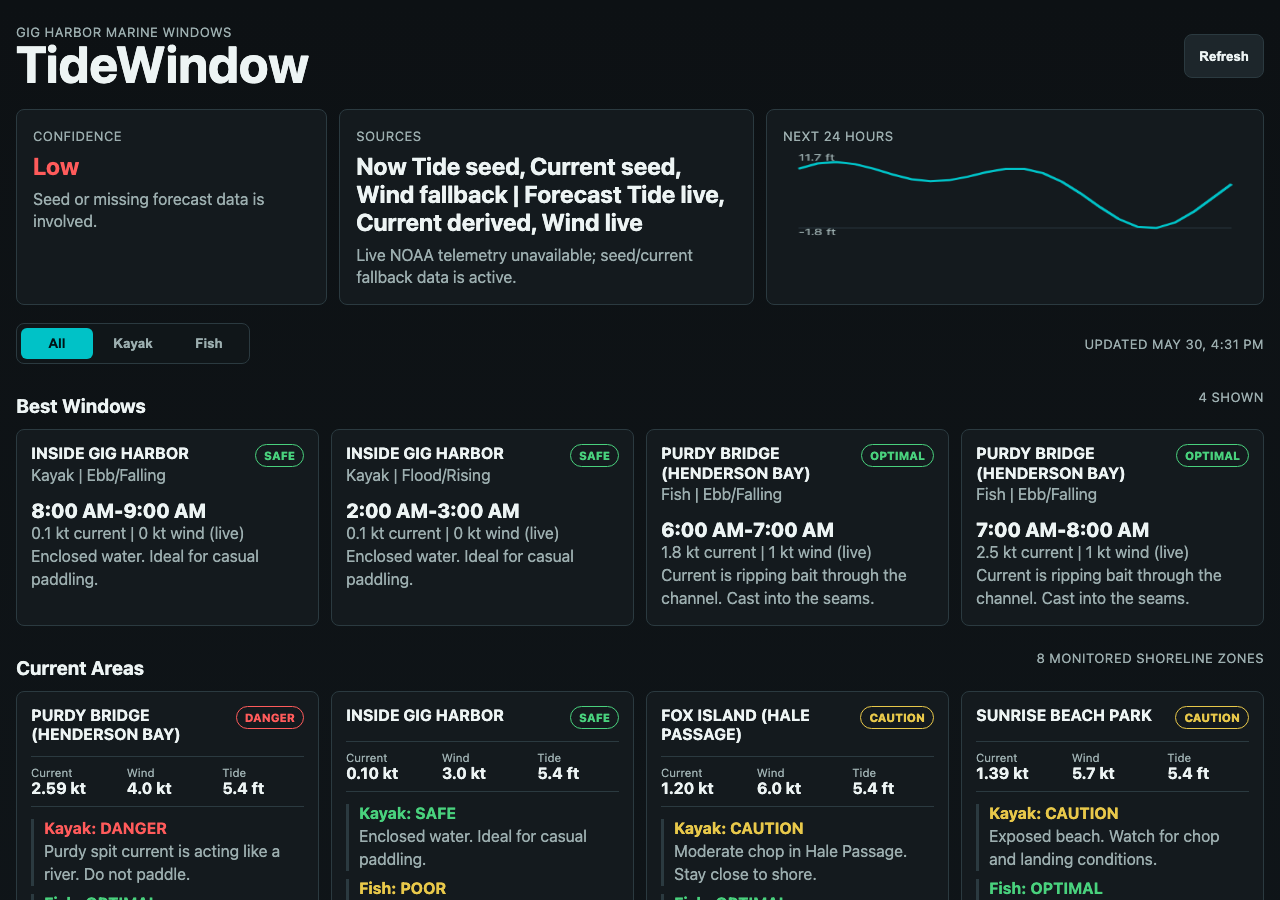
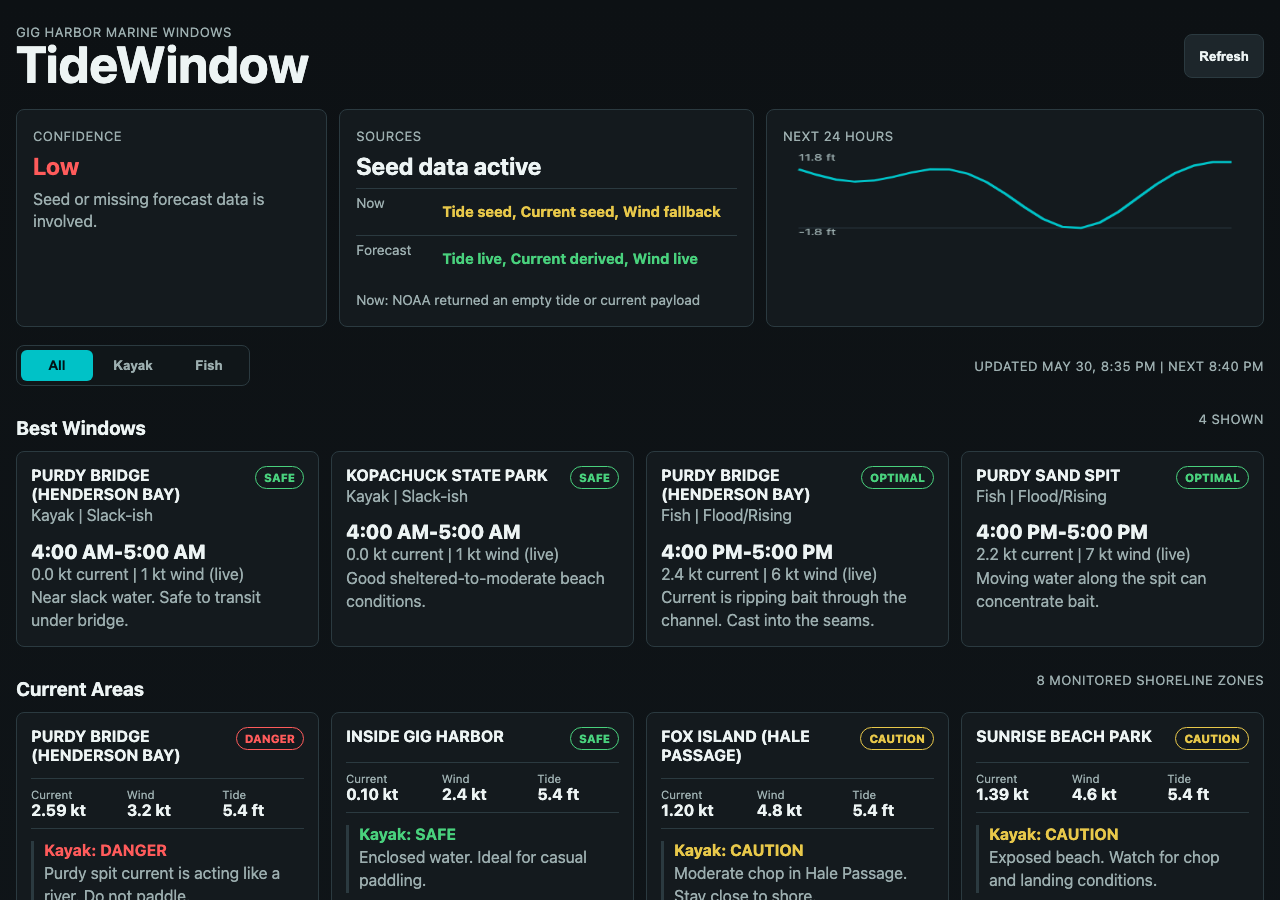
Add web refresh status and zone details

diff --git a/static/app.js b/static/app.js
@@ -1,6 +1,52 @@
 const state = {
   data: null,
   filter: "All",
+  autoRefreshMs: 5 * 60 * 1000,
+  nextRefreshAt: null,
+  refreshTimer: null,
+};
+
+const zoneDetails = {
+  purdy_bridge: {
+    local: "Bridge and spit constriction can accelerate flow quickly.",
+    kayak: "Safe at 1.0 kt or less, caution above 1.0 kt, danger above 2.0 kt.",
+    fish: "Optimal from 1.0-3.0 kt, poor near slack, danger above 3.0 kt.",
+  },
+  gig_harbor: {
+    local: "Protected harbor water with wind as the main comfort limiter.",
+    kayak: "Safe through 15 kt wind, caution above 15 kt.",
+    fish: "Optimal above 8.0 ft tide when bait pushes into the harbor edges.",
+  },
+  fox_island: {
+    local: "Hale Passage has exposure to fetch and current around the bridge.",
+    kayak: "Safe at 8 kt wind or less and 1.0 kt current or less, caution above either, danger above 12 kt wind or 2.0 kt current.",
+    fish: "Optimal from 0.5-2.0 kt current; wait for more movement outside that band.",
+  },
+  sunrise_beach: {
+    local: "Open shoreline with landing conditions that degrade in chop.",
+    kayak: "Safe at 9 kt wind or less and 1.0 kt current or less, caution above either, danger above 14 kt wind or 1.8 kt current.",
+    fish: "Optimal from 0.4-1.8 kt current along the beach structure.",
+  },
+  narrows_park: {
+    local: "Narrows shoreline conditions can change fast as current builds.",
+    kayak: "Safe at 8 kt wind or less and 0.8 kt current or less, caution above either, danger above 12 kt wind or 1.8 kt current.",
+    fish: "Optimal from 0.5-1.8 kt current, caution below that, danger above 2.5 kt.",
+  },
+  fox_island_pier: {
+    local: "Pier structure adds fishable edges but also exposure to wind chop.",
+    kayak: "Safe at 8 kt wind or less and 1.0 kt current or less, caution above either, danger above 12 kt wind or 2.0 kt current.",
+    fish: "Optimal from 0.5-2.0 kt current around structure and drop-offs.",
+  },
+  purdy_sand_spit: {
+    local: "Spit edges concentrate flow near Purdy Bridge.",
+    kayak: "Safe at 1.0 kt current or less, caution above 1.0 kt or 12 kt wind, danger above 2.0 kt current.",
+    fish: "Optimal from 1.0-2.8 kt current, poor near slack, danger above 3.0 kt.",
+  },
+  kopachuck: {
+    local: "Henderson Bay beach exposure makes wind and landings matter.",
+    kayak: "Safe at 9 kt wind or less and 1.0 kt current or less, caution above either, danger above 15 kt wind or 1.8 kt current.",
+    fish: "Optimal above 8.0 ft tide with more than 0.3 kt current.",
+  },
 };
 
 const elements = {
@@ -15,9 +61,16 @@ const elements = {
   windowCount: document.querySelector("#window-count"),
   tideChart: document.querySelector("#tide-chart"),
   filterButtons: document.querySelectorAll(".filter-button"),
+  zoneDialog: document.querySelector("#zone-dialog"),
+  zoneDialogClose: document.querySelector("#zone-dialog-close"),
+  zoneDialogContent: document.querySelector("#zone-dialog-content"),
 };
 
 elements.refresh.addEventListener("click", loadState);
+elements.zoneDialogClose.addEventListener("click", () => elements.zoneDialog.close());
+elements.zoneDialog.addEventListener("click", (event) => {
+  if (event.target === elements.zoneDialog) elements.zoneDialog.close();
+});
 elements.filterButtons.forEach((button) => {
   button.addEventListener("click", () => {
     state.filter = button.dataset.filter;
@@ -27,6 +80,7 @@ elements.filterButtons.forEach((button) => {
 });
 
 loadState();
+scheduleAutoRefresh();
 
 async function loadState() {
   elements.refresh.disabled = true;
@@ -41,12 +95,20 @@ async function loadState() {
     renderWindows();
     renderZones();
     drawTideChart();
+    scheduleAutoRefresh();
   } catch (error) {
     elements.windowsGrid.innerHTML = `<div class="empty">Unable to load TideWindow data. ${escapeHtml(error.message)}</div>`;
     elements.zonesGrid.innerHTML = "";
   } finally {
     elements.refresh.disabled = false;
   }
+}
+
+function scheduleAutoRefresh() {
+  if (state.refreshTimer) clearTimeout(state.refreshTimer);
+  state.nextRefreshAt = new Date(Date.now() + state.autoRefreshMs);
+  updateRefreshLine();
+  state.refreshTimer = setTimeout(loadState, state.autoRefreshMs);
 }
 
 function renderSummary() {
@@ -57,9 +119,19 @@ function renderSummary() {
 
   const telemetrySources = telemetry.sources || {};
   const forecastSources = forecast.sources || {};
-  elements.sourceLine.textContent = `Now ${sourceText(telemetrySources)} | Forecast ${sourceText(forecastSources)}`;
-  elements.sourceNote.textContent = compactNotice(telemetry, forecast);
-  elements.updatedAt.textContent = `Updated ${formatDateTime(generated_at)}`;
+  elements.sourceLine.textContent = sourceHeadline(telemetrySources, forecastSources);
+  elements.sourceNote.innerHTML = dataStatusRows(telemetry, forecast);
+  updateRefreshLine(generated_at);
+}
+
+function updateRefreshLine(generatedAt = state.data?.generated_at) {
+  if (!generatedAt) {
+    elements.updatedAt.textContent = "Updated when data loads";
+    return;
+  }
+
+  const nextRefresh = state.nextRefreshAt ? ` | Next ${formatTime(state.nextRefreshAt)}` : "";
+  elements.updatedAt.textContent = `Updated ${formatDateTime(generatedAt)}${nextRefresh}`;
 }
 
 function renderWindows() {
@@ -107,8 +179,51 @@ function renderZones() {
         ${activity("Kayak", zone.kayak)}
         ${activity("Fish", zone.fish)}
       </div>
+      <button class="details-button" type="button" data-zone-id="${escapeHtml(zone.id)}">Details</button>
     </article>
   `).join("");
+
+  elements.zonesGrid.querySelectorAll(".details-button").forEach((button) => {
+    button.addEventListener("click", () => openZoneDetails(button.dataset.zoneId));
+  });
+}
+
+function openZoneDetails(zoneId) {
+  const zone = state.data.zones.find((item) => item.id === zoneId);
+  if (!zone) return;
+
+  const details = zoneDetails[zoneId] || {
+    local: "Local zone thresholds are based on current TideWindow scoring rules.",
+    kayak: "Kayak scoring uses local current and wind thresholds.",
+    fish: "Fishing scoring uses local current and tide thresholds.",
+  };
+
+  elements.zoneDialogContent.innerHTML = `
+    <p class="eyebrow">Zone detail</p>
+    <h2 id="zone-dialog-title">${escapeHtml(zone.title)}</h2>
+    <div class="detail-metrics">
+      ${metric("Current", `${zone.current.toFixed(2)} kt`)}
+      ${metric("Wind", `${zone.wind.toFixed(1)} kt`)}
+      ${metric("Tide", `${zone.tide.toFixed(1)} ft`)}
+    </div>
+    <p class="detail-note">${escapeHtml(details.local)}</p>
+    ${detailRule("Kayak", zone.kayak, details.kayak)}
+    ${detailRule("Fish", zone.fish, details.fish)}
+  `;
+  elements.zoneDialog.showModal();
+}
+
+function detailRule(label, evaluation, rule) {
+  return `
+    <section class="detail-rule">
+      <header>
+        <h3>${escapeHtml(label)}</h3>
+        ${statusPill(evaluation.status)}
+      </header>
+      <p>${escapeHtml(evaluation.note)}</p>
+      <p class="notice">${escapeHtml(rule)}</p>
+    </section>
+  `;
 }
 
 function drawTideChart() {
@@ -172,11 +287,45 @@ function statusPill(status) {
   return `<span class="status-pill status-${color}">${escapeHtml(status)}</span>`;
 }
 
-function compactNotice(telemetry, forecast) {
-  if (forecast.wind_fallback_reason) return "Hourly wind unavailable; using current wind for forecast scoring.";
-  if (forecast.fallback_reason) return "Forecast fallback data is active.";
-  if (telemetry.fallback_reason) return "Live NOAA telemetry unavailable; seed/current fallback data is active.";
-  return "Live observations and forecast guidance are available.";
+function dataStatusRows(telemetry, forecast) {
+  const telemetrySources = telemetry.sources || {};
+  const forecastSources = forecast.sources || {};
+  const rows = [
+    statusRow("Now", telemetrySources, telemetry.fallback_reason),
+    statusRow("Forecast", forecastSources, forecast.fallback_reason || forecast.wind_fallback_reason),
+  ];
+
+  const notices = [
+    telemetry.fallback_reason && `Now: ${telemetry.fallback_reason}`,
+    forecast.fallback_reason && `Forecast: ${forecast.fallback_reason}`,
+    forecast.wind_fallback_reason && `Wind: ${forecast.wind_fallback_reason}`,
+  ].filter(Boolean);
+
+  if (notices.length) {
+    rows.push(`<p class="source-reason">${escapeHtml(notices.join(" | "))}</p>`);
+  }
+
+  return rows.join("");
+}
+
+function statusRow(label, sources, reason) {
+  const health = reason ? "yellow" : Object.values(sources).includes("seed") || Object.values(sources).includes("fallback") ? "yellow" : "green";
+  return `
+    <div class="source-row">
+      <span>${escapeHtml(label)}</span>
+      <strong class="status-${health}">${sourceText(sources)}</strong>
+    </div>
+  `;
+}
+
+function sourceHeadline(telemetrySources, forecastSources) {
+  const sourceValues = [
+    ...Object.values(telemetrySources),
+    ...Object.values(forecastSources),
+  ];
+  if (sourceValues.includes("seed")) return "Seed data active";
+  if (sourceValues.includes("fallback") || sourceValues.includes("missing")) return "Partial live data";
+  return "Live data";
 }
 
 function sourceText(sources) {

diff --git a/static/styles.css b/static/styles.css
@@ -82,6 +82,11 @@ h2 {
   font-weight: 800;
 }
 
+.refresh-button:disabled {
+  color: var(--muted);
+  cursor: wait;
+}
+
 .summary-grid {
   display: grid;
   grid-template-columns: minmax(220px, 0.75fr) minmax(260px, 1fr) minmax(320px, 1.2fr);
@@ -110,6 +115,29 @@ h2 {
 .summary-panel p {
   color: var(--muted);
   line-height: 1.4;
+}
+
+.source-row {
+  display: grid;
+  grid-template-columns: 76px minmax(0, 1fr);
+  gap: 10px;
+  padding: 5px 0;
+  border-top: 1px solid var(--line);
+}
+
+.source-row span,
+.source-reason {
+  color: var(--muted);
+  font-size: 0.86rem;
+  line-height: 1.4;
+}
+
+.source-row strong {
+  font-size: 0.92rem;
+}
+
+.source-reason {
+  margin-top: 8px;
 }
 
 .tide-visual {
@@ -263,6 +291,88 @@ h2 {
   margin-bottom: 3px;
 }
 
+.details-button {
+  width: 100%;
+  min-height: 36px;
+  margin-top: 14px;
+  border: 1px solid var(--line);
+  border-radius: 8px;
+  background: transparent;
+  color: var(--text);
+  cursor: pointer;
+  font-weight: 800;
+}
+
+.details-button:hover,
+.details-button:focus-visible,
+.refresh-button:hover,
+.refresh-button:focus-visible {
+  border-color: var(--cyan);
+}
+
+.zone-dialog {
+  width: min(680px, calc(100vw - 24px));
+  border: 1px solid var(--line);
+  border-radius: 8px;
+  padding: 0;
+  background: var(--panel);
+  color: var(--text);
+}
+
+.zone-dialog::backdrop {
+  background: rgba(3, 7, 10, 0.72);
+}
+
+.dialog-shell {
+  padding: 18px;
+}
+
+.dialog-close {
+  float: right;
+  min-height: 34px;
+  border: 1px solid var(--line);
+  border-radius: 8px;
+  padding: 0 12px;
+  background: var(--panel-strong);
+  color: var(--text);
+  cursor: pointer;
+  font-weight: 800;
+}
+
+.detail-metrics {
+  display: grid;
+  grid-template-columns: repeat(3, 1fr);
+  gap: 14px;
+  margin: 16px 0;
+  padding: 10px 0;
+  border-top: 1px solid var(--line);
+  border-bottom: 1px solid var(--line);
+}
+
+.detail-note {
+  color: var(--text);
+  line-height: 1.45;
+}
+
+.detail-rule {
+  margin-top: 16px;
+  padding-top: 14px;
+  border-top: 1px solid var(--line);
+}
+
+.detail-rule header {
+  display: flex;
+  align-items: center;
+  justify-content: space-between;
+  gap: 10px;
+  margin-bottom: 8px;
+}
+
+.detail-rule p {
+  color: var(--muted);
+  line-height: 1.45;
+}
+
 .loading,
 .empty {
   border: 1px dashed var(--line);
@@ -304,5 +414,9 @@ h2 {
 
   .filter-button {
     min-width: 0;
+  }
+
+  .detail-metrics {
+    grid-template-columns: 1fr;
   }
 }

diff --git a/static/index.html b/static/index.html
@@ -62,6 +62,13 @@
       </section>
     </main>
 
+    <dialog id="zone-dialog" class="zone-dialog" aria-labelledby="zone-dialog-title">
+      <div class="dialog-shell">
+        <button id="zone-dialog-close" class="dialog-close" type="button" aria-label="Close zone details">Close</button>
+        <div id="zone-dialog-content"></div>
+      </div>
+    </dialog>
+
     <script src="/static/app.js" defer></script>
   </body>
 </html>
